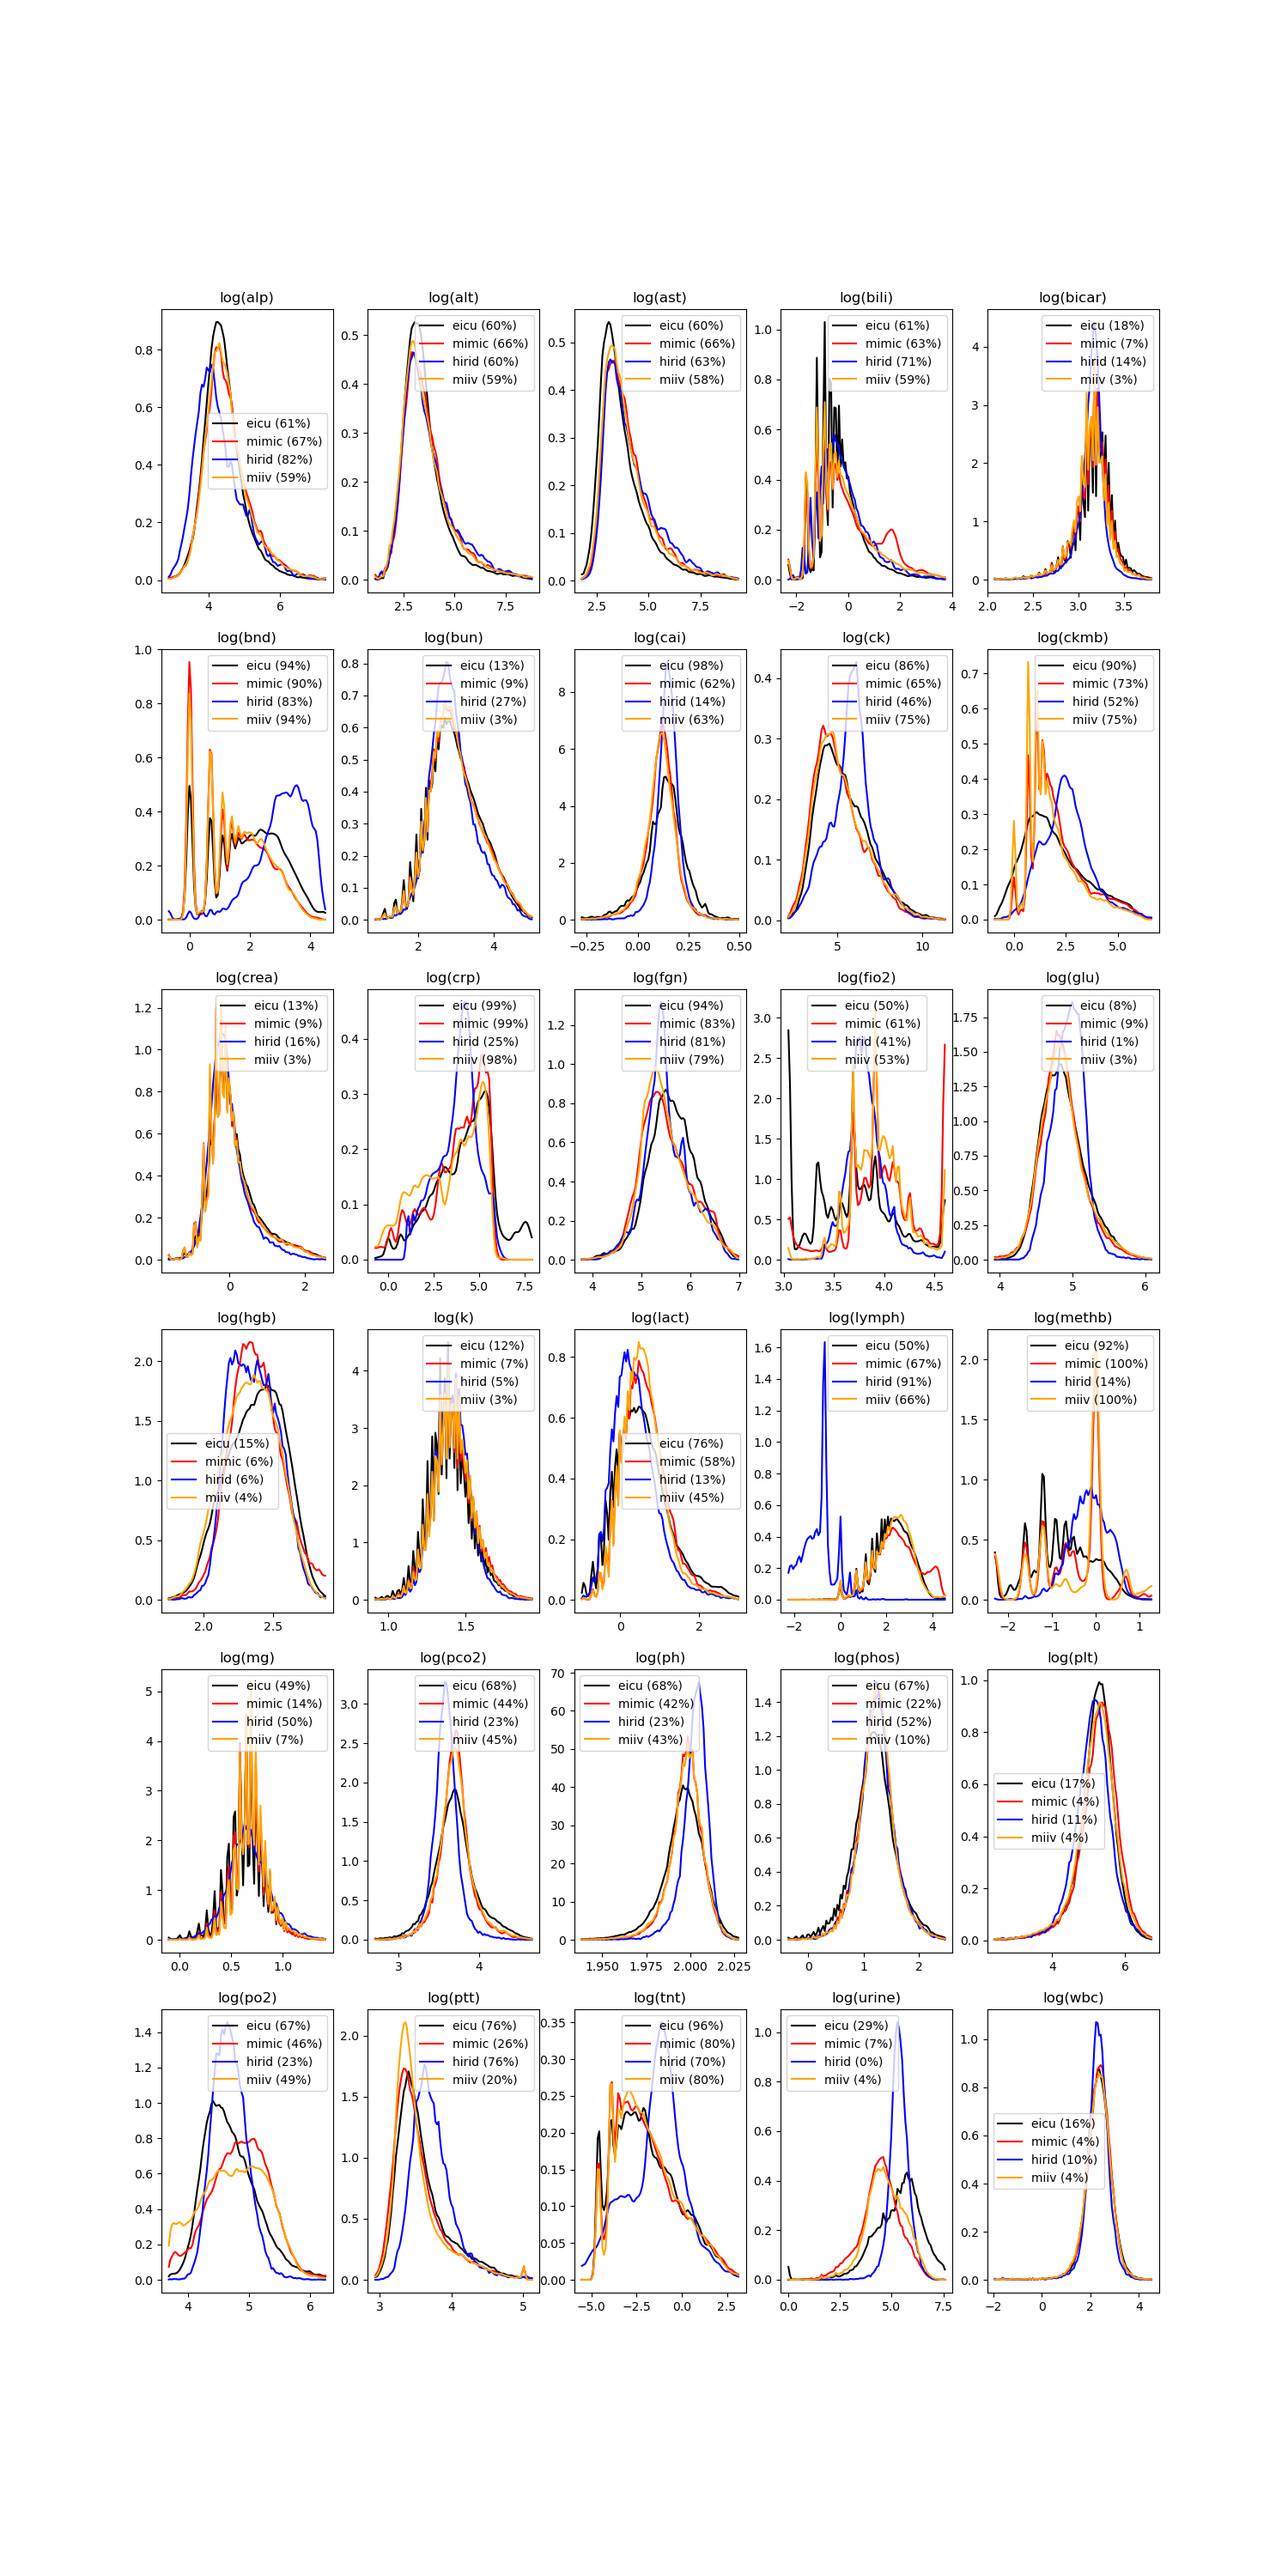
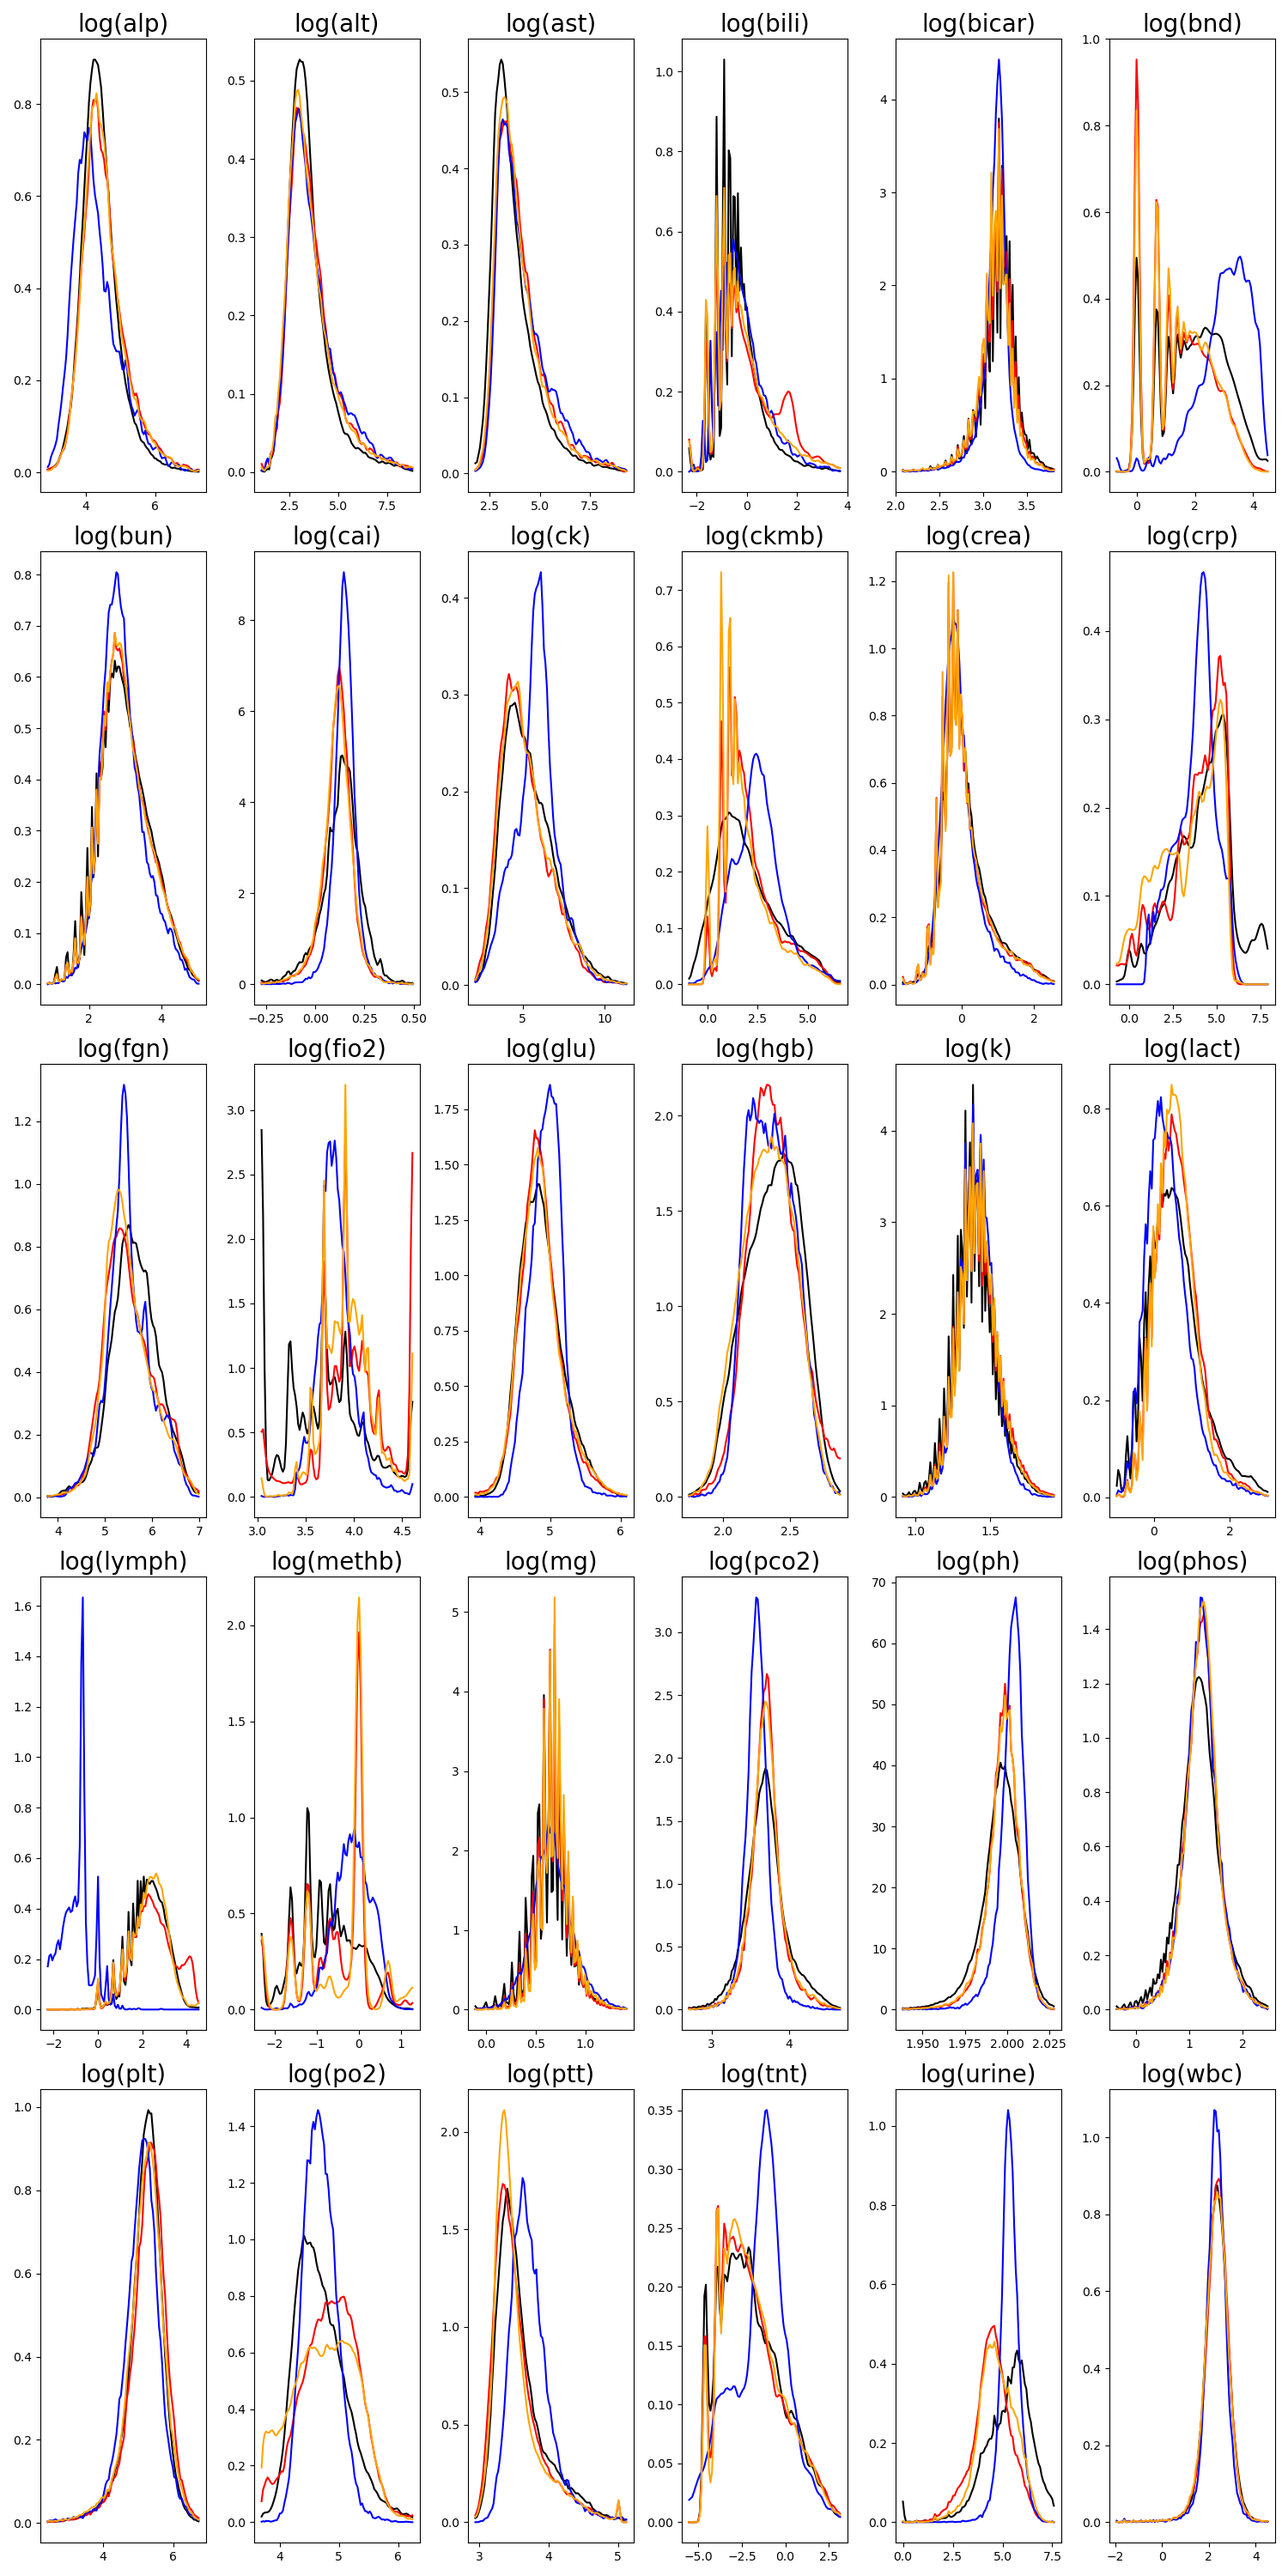
.

diff --git a/LogTransform/plot_densities_log_transformed.py b/LogTransform/plot_densities_log_transformed.py
@@ -14,7 +14,6 @@ from icu_experiments.constants import (
     CATEGORICAL_COLUMNS,
     LOG_COLUMNS,
     NUMERICAL_COLUMNS,
-    SOURCE_COLORS,
     SOURCES,
 )
 from icu_experiments.load_data import load_data_for_prediction
@@ -22,6 +21,13 @@ from icu_experiments.load_data import load_data_for_prediction
 OUTPUT_PATH = "plots/density_plots"
 
 NCOLS = 5
+
+SOURCE_COLORS = {
+    "eicu": "black",
+    "mimic": "red",
+    "hirid": "blue",
+    "miiv": "orange",
+}
 
 def main(x_offset):  # noqa D
 #    OUTPUT_PATH.mkdir(parents=True, exist_ok=True)
@@ -37,7 +43,7 @@ def main(x_offset):  # noqa D
     # nrows = len(NUMERICAL_COLUMNS + CATEGORICAL_COLUMNS) // NCOLS + 1
     nrows = len(LOG_COLUMNS) // NCOLS
 
-    fig, axes = plt.subplots(nrows=nrows, ncols=NCOLS, figsize=(15, 5 * nrows))
+    fig, axes = plt.subplots(nrows=nrows-1, ncols=NCOLS+1, figsize=(15, 5 * nrows))
 
     # for col, ax in zip(NUMERICAL_COLUMNS, axes.flat[: len(NUMERICAL_COLUMNS)]):
     for col, ax in zip(LOG_COLUMNS, axes.flat[: len(LOG_COLUMNS)]):
@@ -55,17 +61,17 @@ def main(x_offset):  # noqa D
             ax.plot(
                 linspace,
                 density(linspace),
-                label=f"{source} ({100 * Xy[lambda x: x['source'] == source][col].isna().mean():.0f}%)",
+                #label=f"{source} ({100 * Xy[lambda x: x['source'] == source][col].isna().mean():.0f}%)",
                 color=SOURCE_COLORS[source],
             )
 
             if col in LOG_COLUMNS:
-                ax.set_title(f"log({col})")
+                ax.set_title(f"log({col})", fontsize=20)
             else:
                 ax.set_title(col)
 
-            ax.legend()
-
+            #ax.legend()
+    plt.tight_layout()
     fig.savefig(f"plots/density_plots/{x_offset}.png")
     plt.close(fig)
 
